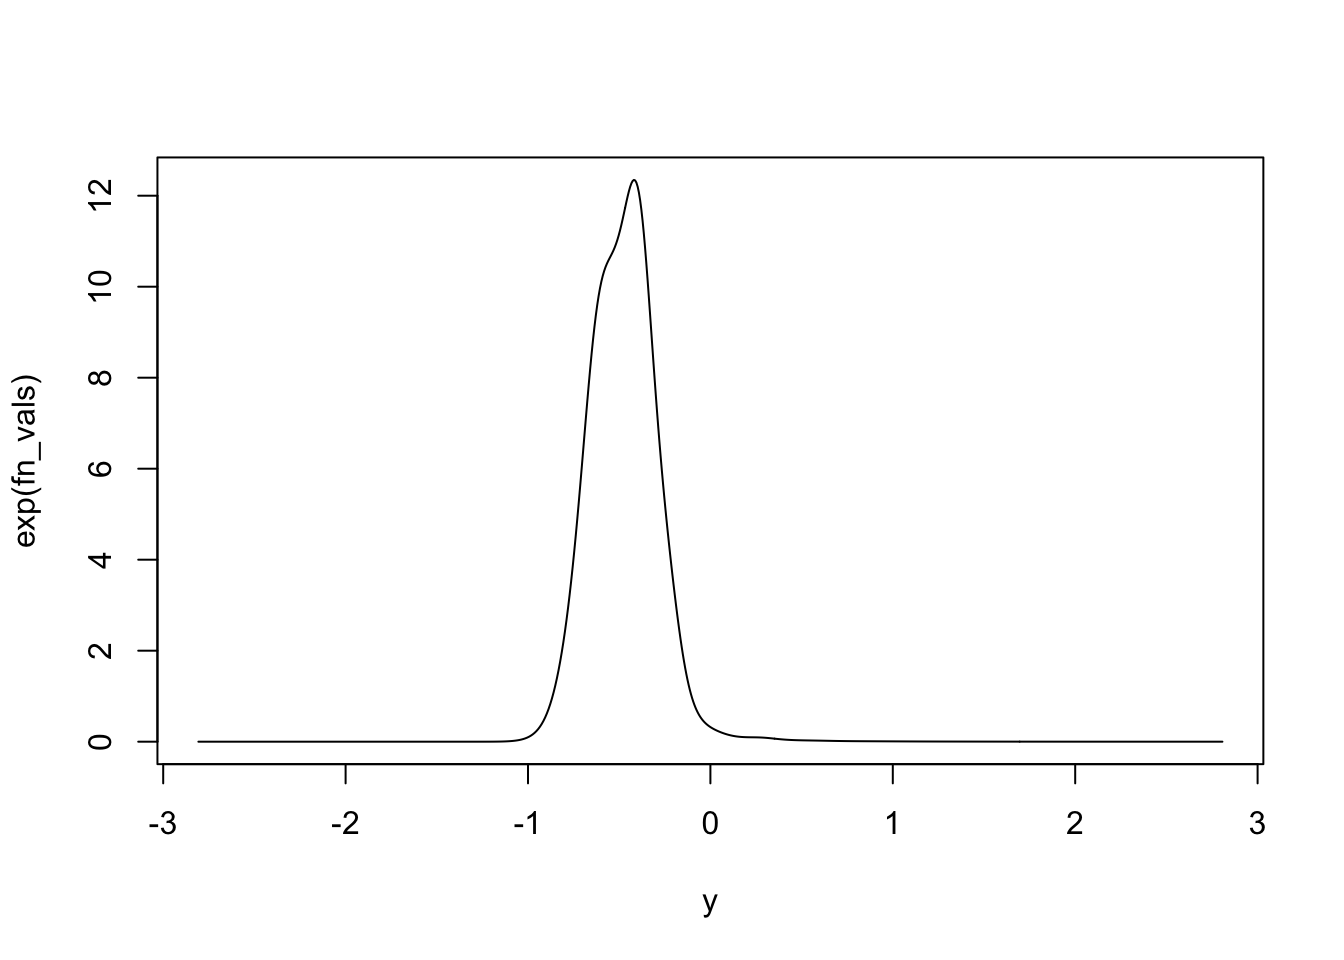
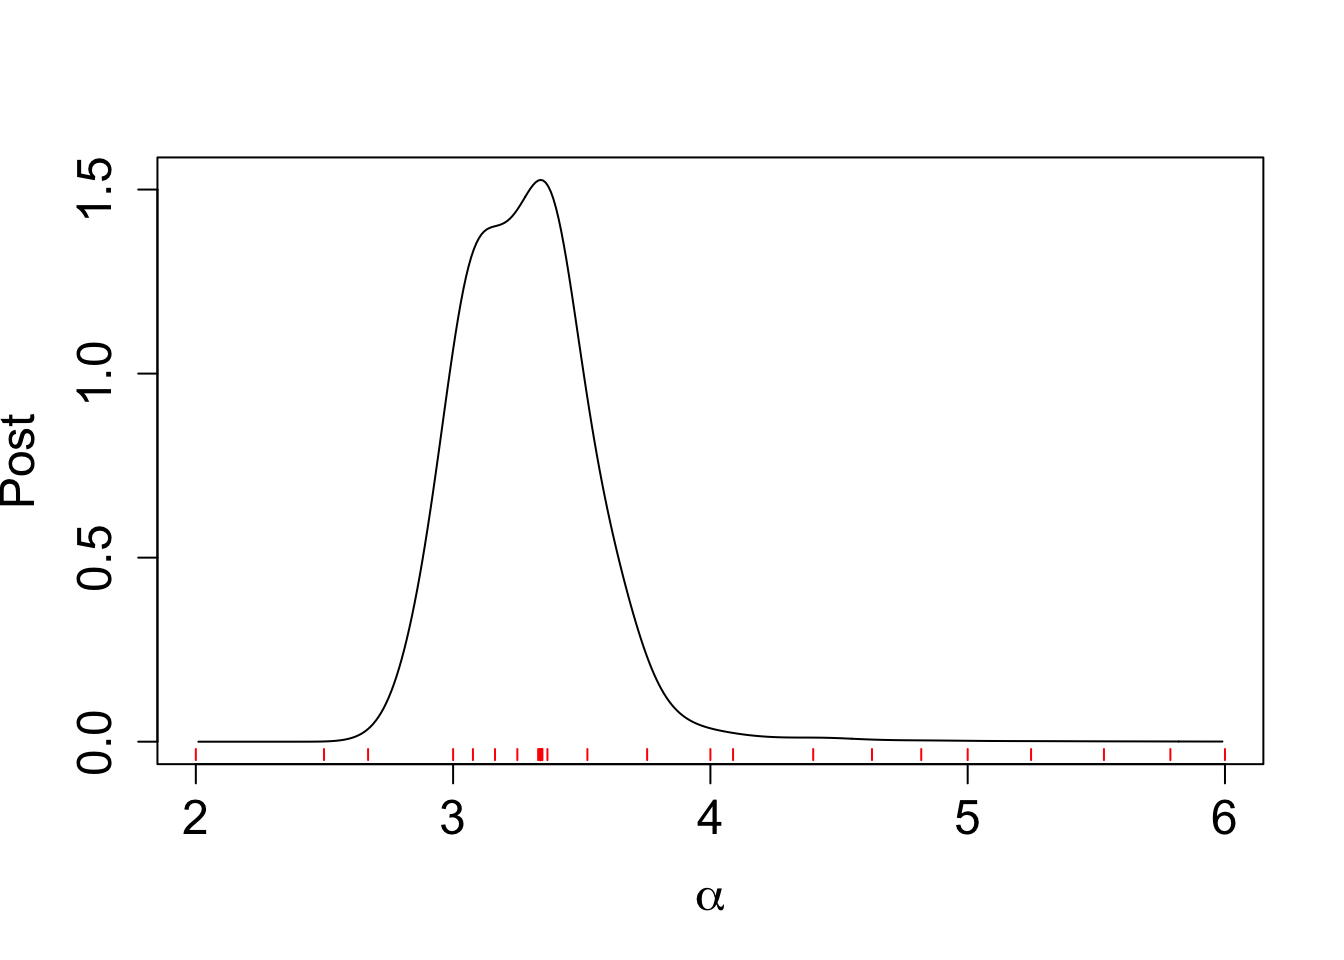
Build site.

diff --git a/docs/co2.html b/docs/co2.html
@@ -519,15 +519,15 @@ project makes it easier to run your code on other machines.</p>
 <div class="panel panel-default">
 <div class="panel-heading">
 <p class="panel-title">
-<a data-toggle="collapse" data-parent="#workflowr-checks" href="#strongRepositoryversionstrongahrefhttpsgithubcomAgueroZZBOSSwebsitetree2e9142f788f88a3be4aca2c036c50fd36242393atargetblank2e9142fa">
+<a data-toggle="collapse" data-parent="#workflowr-checks" href="#strongRepositoryversionstrongahrefhttpsgithubcomAgueroZZBOSSwebsitetree511d2f209e08f12daaf3273e194fb118606c8bf1targetblank511d2f2a">
 <span class="glyphicon glyphicon-ok text-success"
 aria-hidden="true"></span> <strong>Repository version:</strong>
-<a href="https://github.com/AgueroZZ/BOSS_website/tree/2e9142f788f88a3be4aca2c036c50fd36242393a" target="_blank">2e9142f</a>
+<a href="https://github.com/AgueroZZ/BOSS_website/tree/511d2f209e08f12daaf3273e194fb118606c8bf1" target="_blank">511d2f2</a>
 </a>
 </p>
 </div>
 <div
[2 lines of base64/hex data omitted]
 class="panel-collapse collapse">
 <div class="panel-body">
 <p>
@@ -537,7 +537,7 @@ reproducibility.
 </p>
 <p>
 The results in this page were generated with repository version
-<a href="https://github.com/AgueroZZ/BOSS_website/tree/2e9142f788f88a3be4aca2c036c50fd36242393a" target="_blank">2e9142f</a>.
+<a href="https://github.com/AgueroZZ/BOSS_website/tree/511d2f209e08f12daaf3273e194fb118606c8bf1" target="_blank">511d2f2</a>.
 See the <em>Past versions</em> tab to see a history of the changes made
 to the R Markdown and HTML files.
 </p>
@@ -651,6 +651,40 @@ Message
 </tr>
 </thead>
 <tbody>
+<tr>
+<td>
+Rmd
+</td>
+<td>
+<a href="https://github.com/AgueroZZ/BOSS_website/blob/511d2f209e08f12daaf3273e194fb118606c8bf1/analysis/co2.Rmd" target="_blank">511d2f2</a>
+</td>
+<td>
+Ziang Zhang
+</td>
+<td>
+2025-04-29
+</td>
+<td>
+workflowr::wflow_publish("analysis/co2.Rmd")
+</td>
+</tr>
+<tr>
+<td>
+html
+</td>
+<td>
+<a href="https://rawcdn.githack.com/AgueroZZ/BOSS_website/dc232e04a0ee92f0318e4da3c9d3a8b170ab208a/docs/co2.html" target="_blank">dc232e0</a>
+</td>
+<td>
+Ziang Zhang
+</td>
+<td>
+2025-04-29
+</td>
+<td>
+Build site.
+</td>
+</tr>
 <tr>
 <td>
 Rmd
@@ -830,6 +864,43 @@ save(BO_result, file = paste0(output_path, &quot;/BO_result.rda&quot;))</code></
 plot(BO_result$KL_result$KL ~ BO_result$KL_result$i, type = &quot;o&quot;, 
      ylab = &quot;KL divergence&quot;, xlab = &quot;iteration&quot;, cex.lab = 1.5, cex.axis = 1.5)</code></pre>
 <p><img src="figure/co2.Rmd/unnamed-chunk-5-1.png" width="672" style="display: block; margin: auto;" /></p>
+<p>
+<button type="button" class="btn btn-default btn-xs btn-workflowr btn-workflowr-fig" data-toggle="collapse" data-target="#fig-unnamed-chunk-5-1">
+Past versions of unnamed-chunk-5-1.png
+</button>
+</p>
+<div id="fig-unnamed-chunk-5-1" class="collapse">
+<div class="table-responsive">
+<table class="table table-condensed table-hover">
+<thead>
+<tr>
+<th>
+Version
+</th>
+<th>
+Author
+</th>
+<th>
+Date
+</th>
+</tr>
+</thead>
+<tbody>
+<tr>
+<td>
+<a href="https://github.com/AgueroZZ/BOSS_website/blob/dc232e04a0ee92f0318e4da3c9d3a8b170ab208a/docs/figure/co2.Rmd/unnamed-chunk-5-1.png" target="_blank">dc232e0</a>
+</td>
+<td>
+Ziang Zhang
+</td>
+<td>
+2025-04-29
+</td>
+</tr>
+</tbody>
+</table>
+</div>
+</div>
 <pre class="r"><code>data_to_smooth &lt;- list()
 data_to_smooth$x &lt;- as.numeric(BO_result$result$x)[order(as.numeric(BO_result$result$x))]
 data_to_smooth$x_original &lt;- as.numeric(BO_result$result$x_original)[order(as.numeric(BO_result$result$x))]
@@ -841,7 +912,14 @@ y &lt;- qnorm((x - lower)/(upper - lower))
 ff &lt;- list()
 ff$fn &lt;- function(y) as.numeric(surrogate(pnorm(y), data_to_smooth = data_to_smooth, choice_cov = square_exp_cov_generator_nd(length_scale = BO_result$length_scale, signal_var = BO_result$signal_var)) + dnorm(y, log = TRUE))
 fn_vals &lt;- sapply(y, ff$fn)
-plot(exp(fn_vals) ~ y, type = &quot;l&quot;)</code></pre>
+lognormal_const &lt;- integrate_aghq(f = ff$fn, k = 10)
+post_y &lt;- data.frame(y = y, pos = exp(fn_vals - lognormal_const))
+post_x &lt;- data.frame(x = pnorm(post_y$y) * (upper - lower) + lower, post = (post_y$pos / dnorm(post_y$y))/(upper - lower) )
+plot(post_x$post ~ post_x$x, type = &quot;l&quot;, ylab = &quot;Post&quot;, 
+     xlab = expression(alpha) , cex.lab = 1.5, cex.axis = 1.5)
+for(x_val in data_to_smooth$x_original) {
+  segments(x_val, -0.02, x_val, -0.05, col = &quot;red&quot;)
+}</code></pre>
 <p><img src="figure/co2.Rmd/unnamed-chunk-7-1.png" width="672" style="display: block; margin: auto;" /></p>
 <p>
 <button type="button" class="btn btn-default btn-xs btn-workflowr btn-workflowr-fig" data-toggle="collapse" data-target="#fig-unnamed-chunk-7-1">
@@ -867,53 +945,18 @@ Date
 <tbody>
 <tr>
 <td>
-<a href="https://github.com/AgueroZZ/BOSS_website/blob/45f5f0a8e39f8756954321a854126657ffdc668d/docs/figure/co2.Rmd/unnamed-chunk-7-1.png" target="_blank">45f5f0a</a>
+<a href="https://github.com/AgueroZZ/BOSS_website/blob/dc232e04a0ee92f0318e4da3c9d3a8b170ab208a/docs/figure/co2.Rmd/unnamed-chunk-7-1.png" target="_blank">dc232e0</a>
 </td>
 <td>
 Ziang Zhang
 </td>
 <td>
-2025-04-20
+2025-04-29
 </td>
 </tr>
-</tbody>
-</table>
-</div>
-</div>
-<pre class="r"><code>lognormal_const &lt;- integrate_aghq(f = ff$fn, k = 10)
-post_y &lt;- data.frame(y = y, pos = exp(fn_vals - lognormal_const))
-post_x &lt;- data.frame(x = pnorm(post_y$y) * (upper - lower) + lower, post = (post_y$pos / dnorm(post_y$y))/(upper - lower) )
-plot(post_x$post ~ post_x$x, type = &quot;l&quot;, ylab = &quot;Post&quot;, 
-     xlab = &#39;$\\alpha$&#39; , cex.lab = 1.5, cex.axis = 1.5)
-for(x_val in data_to_smooth$x_original) {
-  segments(x_val, -0.02, x_val, -0.05, col = &quot;red&quot;)
-}</code></pre>
-<p><img src="figure/co2.Rmd/unnamed-chunk-7-2.png" width="672" style="display: block; margin: auto;" /></p>
-<p>
-<button type="button" class="btn btn-default btn-xs btn-workflowr btn-workflowr-fig" data-toggle="collapse" data-target="#fig-unnamed-chunk-7-2">
-Past versions of unnamed-chunk-7-2.png
-</button>
-</p>
-<div id="fig-unnamed-chunk-7-2" class="collapse">
-<div class="table-responsive">
-<table class="table table-condensed table-hover">
-<thead>
-<tr>
-<th>
-Version
-</th>
-<th>
-Author
-</th>
-<th>
-Date
-</th>
-</tr>
-</thead>
-<tbody>
 <tr>
 <td>
-<a href="https://github.com/AgueroZZ/BOSS_website/blob/45f5f0a8e39f8756954321a854126657ffdc668d/docs/figure/co2.Rmd/unnamed-chunk-7-2.png" target="_blank">45f5f0a</a>
+<a href="https://github.com/AgueroZZ/BOSS_website/blob/45f5f0a8e39f8756954321a854126657ffdc668d/docs/figure/co2.Rmd/unnamed-chunk-7-1.png" target="_blank">45f5f0a</a>
 </td>
 <td>
 Ziang Zhang
@@ -936,6 +979,43 @@ my_cdf[which(post_x$x == 3.47)] - my_cdf[which(post_x$x == 3.11)]</code></pre>
 abline(v = 3.47, col = &quot;purple&quot;)
 abline(v = 3.11, col = &quot;purple&quot;)</code></pre>
 <p><img src="figure/co2.Rmd/unnamed-chunk-8-1.png" width="672" style="display: block; margin: auto;" /></p>
+<p>
+<button type="button" class="btn btn-default btn-xs btn-workflowr btn-workflowr-fig" data-toggle="collapse" data-target="#fig-unnamed-chunk-8-1">
+Past versions of unnamed-chunk-8-1.png
+</button>
+</p>
+<div id="fig-unnamed-chunk-8-1" class="collapse">
+<div class="table-responsive">
+<table class="table table-condensed table-hover">
+<thead>
+<tr>
+<th>
+Version
+</th>
+<th>
+Author
+</th>
+<th>
+Date
+</th>
+</tr>
+</thead>
+<tbody>
+<tr>
+<td>
+<a href="https://github.com/AgueroZZ/BOSS_website/blob/dc232e04a0ee92f0318e4da3c9d3a8b170ab208a/docs/figure/co2.Rmd/unnamed-chunk-8-1.png" target="_blank">dc232e0</a>
+</td>
+<td>
+Ziang Zhang
+</td>
+<td>
+2025-04-29
+</td>
+</tr>
+</tbody>
+</table>
+</div>
+</div>
 <pre class="r"><code>my_cdf[which(post_x$x == 3.82)] - my_cdf[which(post_x$x == 2.82)]</code></pre>
 <pre><code>[1] 0.9575946</code></pre>
 <pre class="r"><code>plot(post_x$post ~ post_x$x, type = &quot;l&quot;, ylab = &quot;Post&quot;, 
@@ -943,6 +1023,43 @@ abline(v = 3.11, col = &quot;purple&quot;)</code></pre>
 abline(v = 3.82, col = &quot;purple&quot;)
 abline(v = 2.82, col = &quot;purple&quot;)</code></pre>
 <p><img src="figure/co2.Rmd/unnamed-chunk-8-2.png" width="672" style="display: block; margin: auto;" /></p>
+<p>
+<button type="button" class="btn btn-default btn-xs btn-workflowr btn-workflowr-fig" data-toggle="collapse" data-target="#fig-unnamed-chunk-8-2">
+Past versions of unnamed-chunk-8-2.png
+</button>
+</p>
+<div id="fig-unnamed-chunk-8-2" class="collapse">
+<div class="table-responsive">
+<table class="table table-condensed table-hover">
+<thead>
+<tr>
+<th>
+Version
+</th>
+<th>
+Author
+</th>
+<th>
+Date
+</th>
+</tr>
+</thead>
+<tbody>
+<tr>
+<td>
+<a href="https://github.com/AgueroZZ/BOSS_website/blob/dc232e04a0ee92f0318e4da3c9d3a8b170ab208a/docs/figure/co2.Rmd/unnamed-chunk-8-2.png" target="_blank">dc232e0</a>
+</td>
+<td>
+Ziang Zhang
+</td>
+<td>
+2025-04-29
+</td>
+</tr>
+</tbody>
+</table>
+</div>
+</div>
 <p>To look at the posterior of the latent field (e.g <span
 class="math inline">\(g\)</span>), we can compute the AGHQ rule to
 integrate out the conditioning parameter <span
@@ -1035,6 +1152,17 @@ Date
 <tbody>
 <tr>
 <td>
+<a href="https://github.com/AgueroZZ/BOSS_website/blob/dc232e04a0ee92f0318e4da3c9d3a8b170ab208a/docs/figure/co2.Rmd/unnamed-chunk-12-1.png" target="_blank">dc232e0</a>
+</td>
+<td>
+Ziang Zhang
+</td>
+<td>
+2025-04-29
+</td>
+</tr>
+<tr>
+<td>
 <a href="https://github.com/AgueroZZ/BOSS_website/blob/45f5f0a8e39f8756954321a854126657ffdc668d/docs/figure/co2.Rmd/unnamed-chunk-12-1.png" target="_blank">45f5f0a</a>
 </td>
 <td>
@@ -1058,6 +1186,43 @@ plot(ts_summary$q0.5 ~ ts_summary$time, type = &quot;l&quot;, lty = &quot;solid&
 lines(ts_summary$q0.975 ~ ts_summary$time, col = &quot;red&quot;, lty = &quot;dashed&quot;)
 lines(ts_summary$q0.025 ~ ts_summary$time, col = &quot;red&quot;, lty = &quot;dashed&quot;)</code></pre>
 <p><img src="figure/co2.Rmd/unnamed-chunk-13-1.png" width="672" style="display: block; margin: auto;" /></p>
+<p>
+<button type="button" class="btn btn-default btn-xs btn-workflowr btn-workflowr-fig" data-toggle="collapse" data-target="#fig-unnamed-chunk-13-1">
+Past versions of unnamed-chunk-13-1.png
+</button>
+</p>
+<div id="fig-unnamed-chunk-13-1" class="collapse">
+<div class="table-responsive">
+<table class="table table-condensed table-hover">
+<thead>
+<tr>
+<th>
+Version
+</th>
+<th>
+Author
+</th>
+<th>
+Date
+</th>
+</tr>
+</thead>
+<tbody>
+<tr>
+<td>
+<a href="https://github.com/AgueroZZ/BOSS_website/blob/dc232e04a0ee92f0318e4da3c9d3a8b170ab208a/docs/figure/co2.Rmd/unnamed-chunk-13-1.png" target="_blank">dc232e0</a>
+</td>
+<td>
+Ziang Zhang
+</td>
+<td>
+2025-04-29
+</td>
+</tr>
+</tbody>
+</table>
+</div>
+</div>
 </div>
 <div id="implement-grid-based-algorithm" class="section level2">
 <h2>Implement grid-based algorithm</h2>
@@ -1092,6 +1257,43 @@ for(x_val in data_to_smooth$x_original) {
   segments(x_val, -0.02, x_val, -0.05, col = &quot;red&quot;)
 }</code></pre>
 <p><img src="figure/co2.Rmd/unnamed-chunk-15-1.png" width="672" style="display: block; margin: auto;" /></p>
+<p>
+<button type="button" class="btn btn-default btn-xs btn-workflowr btn-workflowr-fig" data-toggle="collapse" data-target="#fig-unnamed-chunk-15-1">
+Past versions of unnamed-chunk-15-1.png
+</button>
+</p>
+<div id="fig-unnamed-chunk-15-1" class="collapse">
+<div class="table-responsive">
+<table class="table table-condensed table-hover">
+<thead>
+<tr>
+<th>
+Version
+</th>
+<th>
+Author
+</th>
+<th>
+Date
+</th>
+</tr>
+</thead>
+<tbody>
+<tr>
+<td>
+<a href="https://github.com/AgueroZZ/BOSS_website/blob/dc232e04a0ee92f0318e4da3c9d3a8b170ab208a/docs/figure/co2.Rmd/unnamed-chunk-15-1.png" target="_blank">dc232e0</a>
+</td>
+<td>
+Ziang Zhang
+</td>
+<td>
+2025-04-29
+</td>
+</tr>
+</tbody>
+</table>
+</div>
+</div>
 <p>As shown in the figure, the BOSS algorithm is able provide a good
 approximation of the posterior distribution, while requiring
 significantly fewer evaluations of the likelihood function.</p>
